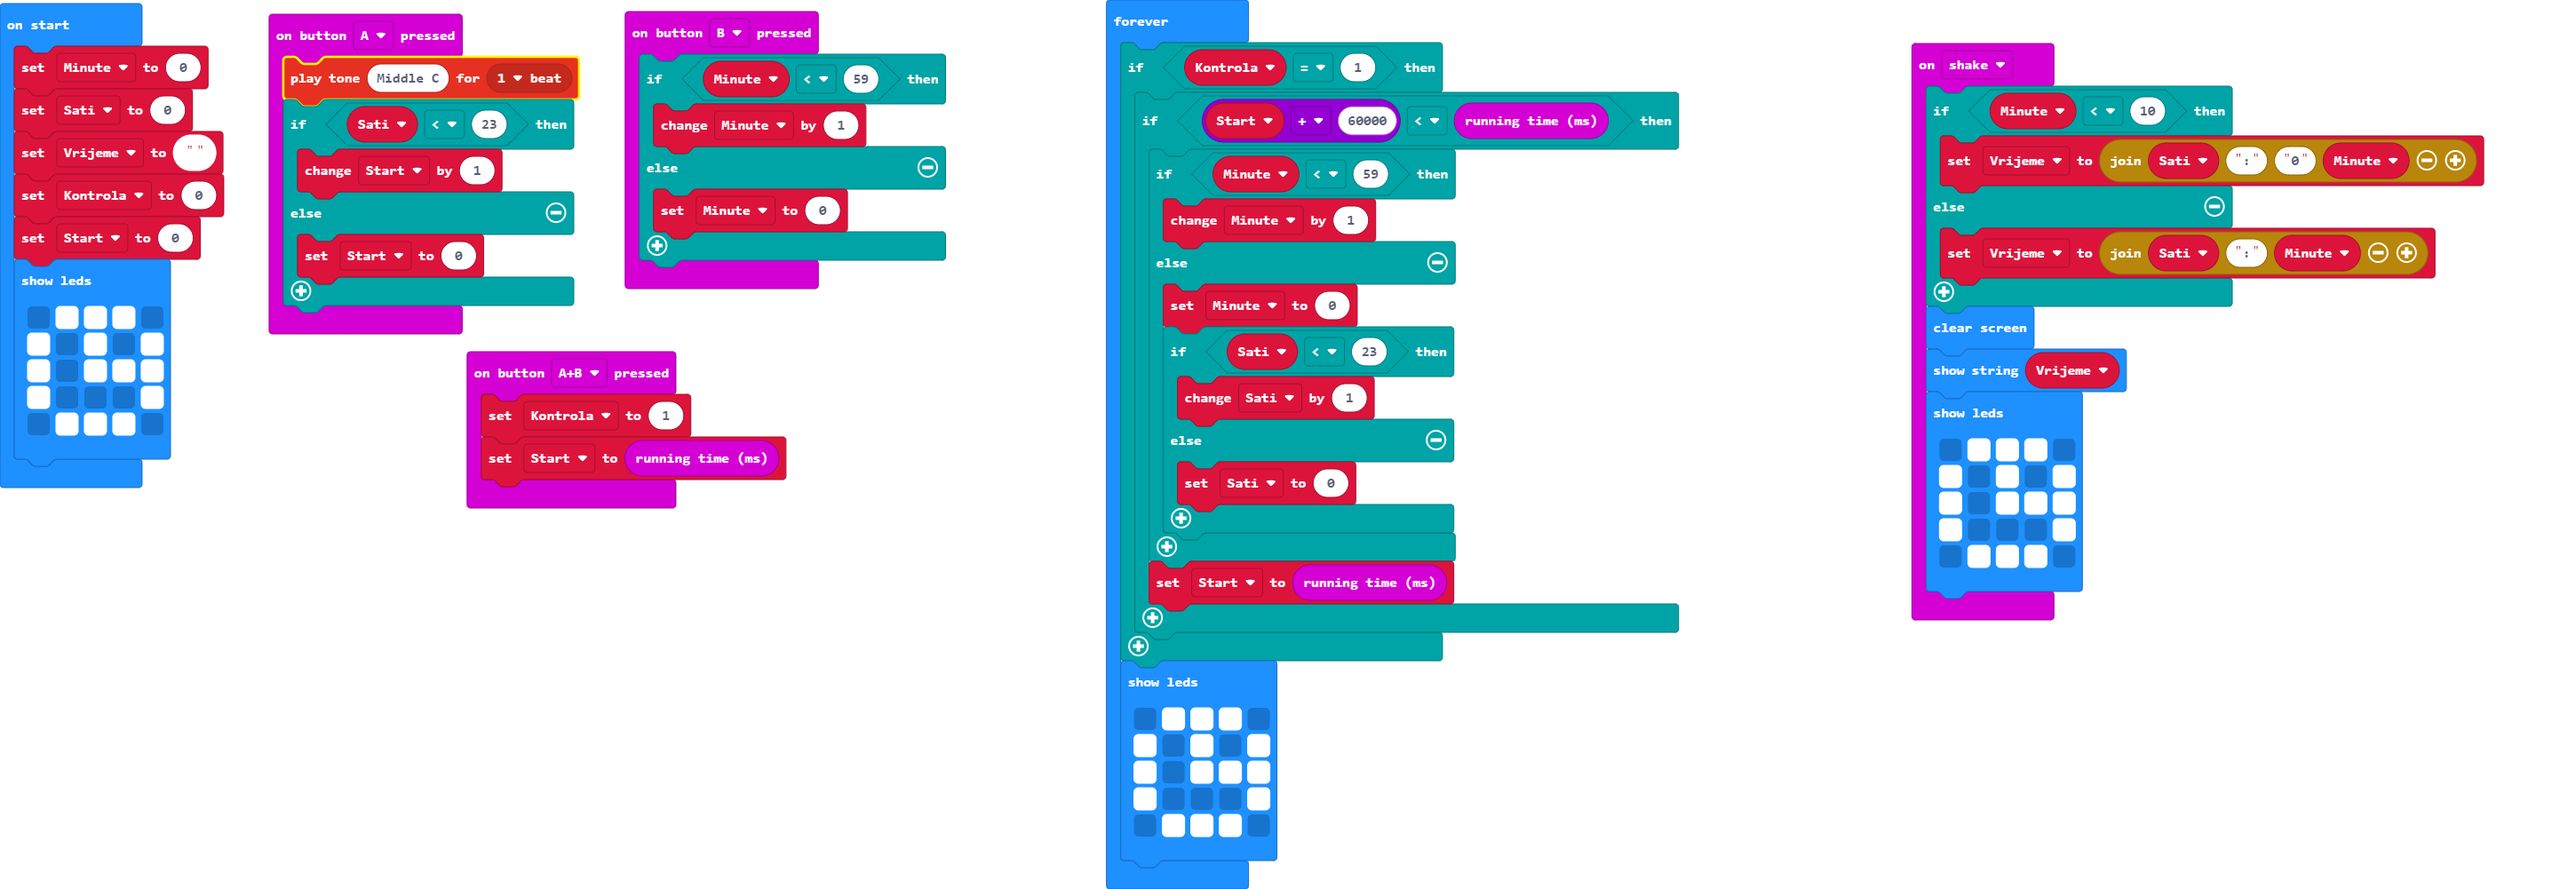
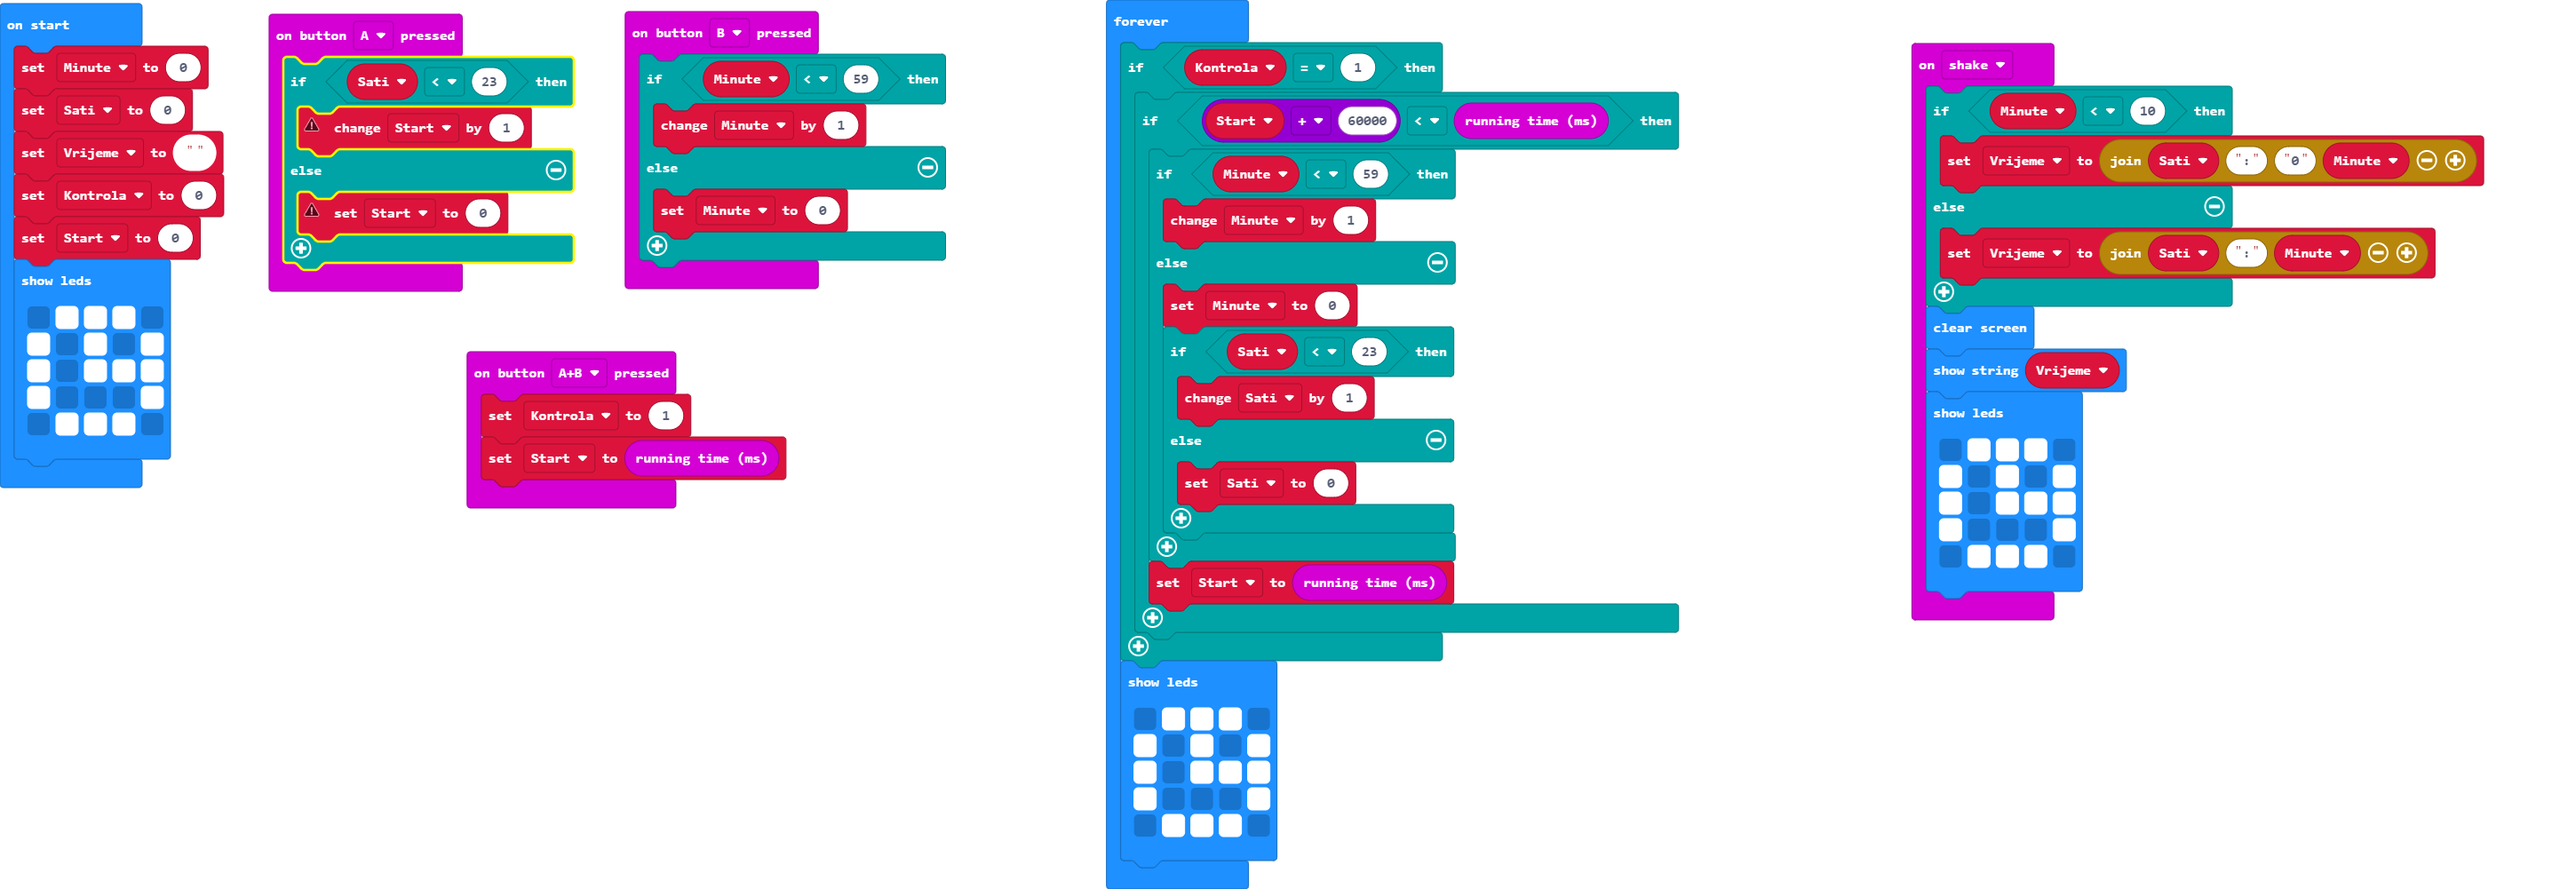
Fixed the bug that didn't allow anyone to palce the "" in the definitions.

Changed region(s): [[0.0931, 0.0619, 0.2483, 0.4026]]

diff --git a/main.ts b/main.ts
@@ -1,5 +1,4 @@
 input.onButtonPressed(Button.A, function () {
-    music.playTone(262, music.beat(BeatFraction.Whole))
     if (Sati < 23) {
         Start += 1
     } else {
